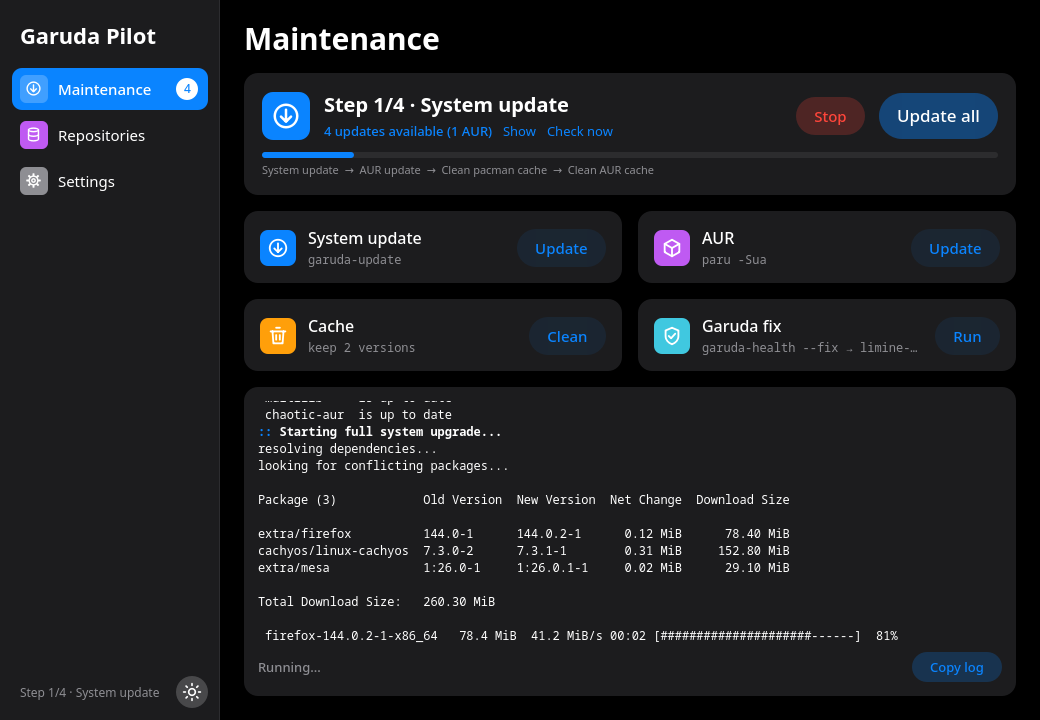
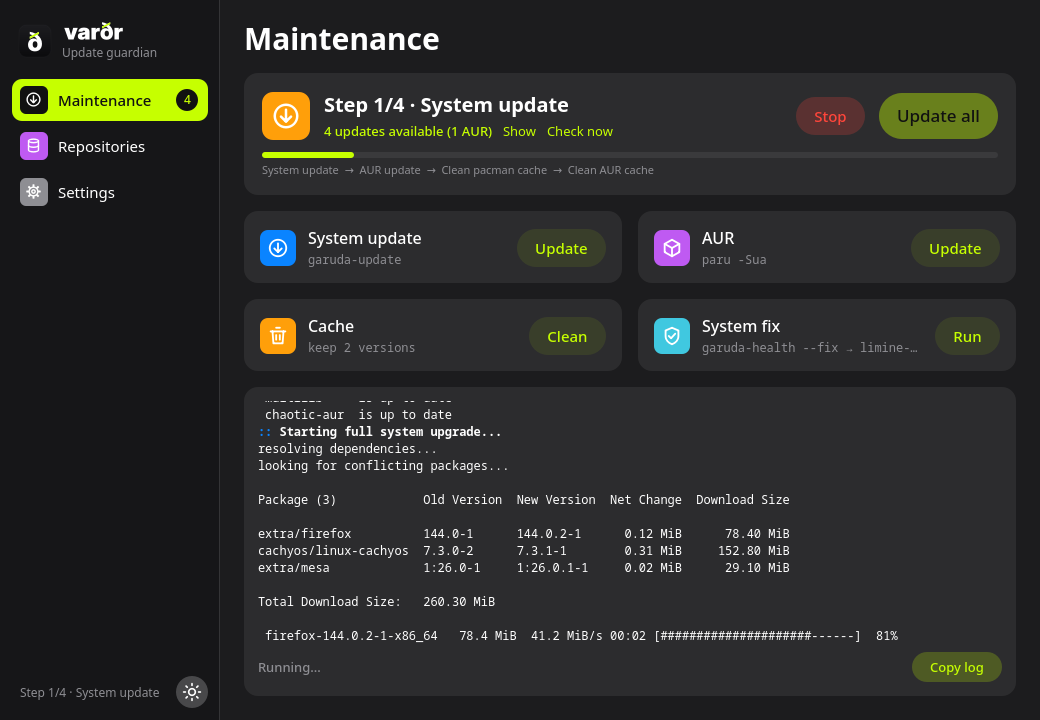
README for varðr, new screenshots, pkgdesc

Changed region(s): [[0.0, 0.0, 1.0, 1.0]]

diff --git a/README.md b/README.md
@@ -1,25 +1,33 @@
-# Vardr
+<p align="center">
+  <picture>
+    <source media="(prefers-color-scheme: dark)" srcset="icons/wordmark-dark.svg">
+    <img src="icons/wordmark-light.svg" alt="varðr" height="72">
+  </picture>
+</p>
 
-One-click system maintenance for Garuda Linux and other Arch-based systems. A lean replacement for the Garuda Toolbox maintenance tasks, built with PySide6/QML.
+<p align="center"><b>The update guardian for Arch-based systems.</b><br>
+One-click updates, AUR, cache cleaning, mirrors and repositories – with a tray icon that tells you when updates are waiting.</p>
 
-*Not affiliated with the Garuda Linux project.*
+<p align="center"><sub>In Norse myth, a <i>vörðr</i> is a guardian spirit that watches over a person. Pronounced “var-thr”.</sub></p>
 
-![Vardr](docs/screenshot-light.png)
+![varðr](docs/screenshot-dark.png)
 
 ## Features
 
 - **Update all**: system update → AUR → cache cleaning in one run, stops at the first failing step
-- **Custom update command** (default `garuda-update`), optionally run as root via pkexec
+- **Custom update command**: defaults to `garuda-update` on Garuda Linux, `pacman -Syu` elsewhere; optionally run as root via pkexec
 - **AUR updates** with paru or yay, run as your user (`-Sua --sudo pkexec`)
 - **Cache cleaning** with `paccache`: keep the last 1–3 versions, drop uninstalled packages; pacman cache and AUR build directories
-- **Fix command** (default `garuda-health --fix`, followed by `limine-update` if installed)
+- **Fix command** (optional; on Garuda `garuda-health --fix`, followed by `limine-update` if installed)
 - **Repository editor** for `/etc/pacman.conf`: enable/disable, reorder by drag, SigLevel, add with key import, remove, raw text mode; validated with `pacman-conf`, timestamped backup, followed by a full update (no partial `-Sy`)
 - **Mirror ranking** with `rate-mirrors` for Arch, chaotic-aur and CachyOS (v3/v4 lists derived)
-- **Update check** in the background (`checkupdates` + AUR), interval off/1/6/12/24 h, tray icon, notification only for new updates
+- **Update check** in the background (`checkupdates` + AUR), interval off/1/6/12/24 h, tray badge, notification only for new updates
 - Live terminal output with in-place progress bars and Yes/No buttons for prompts
 - Light/dark mode following the desktop, with manual override
 
-![Dark mode](docs/screenshot-dark.png)
+Works on Arch, Garuda, CachyOS, EndeavourOS and other Arch-based distributions.
+
+![Light mode](docs/screenshot-light.png)
 
 ## Requirements
 
@@ -39,9 +47,12 @@ Or run from source: `python app.py` (`--tray` starts hidden in the tray).
 ## Notes
 
 - Root steps use pkexec (one password prompt per step; AUR helpers may ask again while installing).
-- With the tray available, closing the window keeps the app running. "Start at login" writes `~/.config/autostart/vardr.desktop`.
+- With a system tray, closing the window keeps varðr running. "Start at login" writes `~/.config/autostart/vardr.desktop`.
 - Settings: `~/.config/vardr/settings.json`.
 - Backups: `/etc/pacman.conf.bak-<timestamp>`, mirror lists as `<file>.vardr.bak`.
+- Logo: `packaging/make-logo.py` (Inter Display Black, SIL Open Font License).
+
+*Not affiliated with Arch Linux or the Garuda Linux project.*
 
 ## License
 
